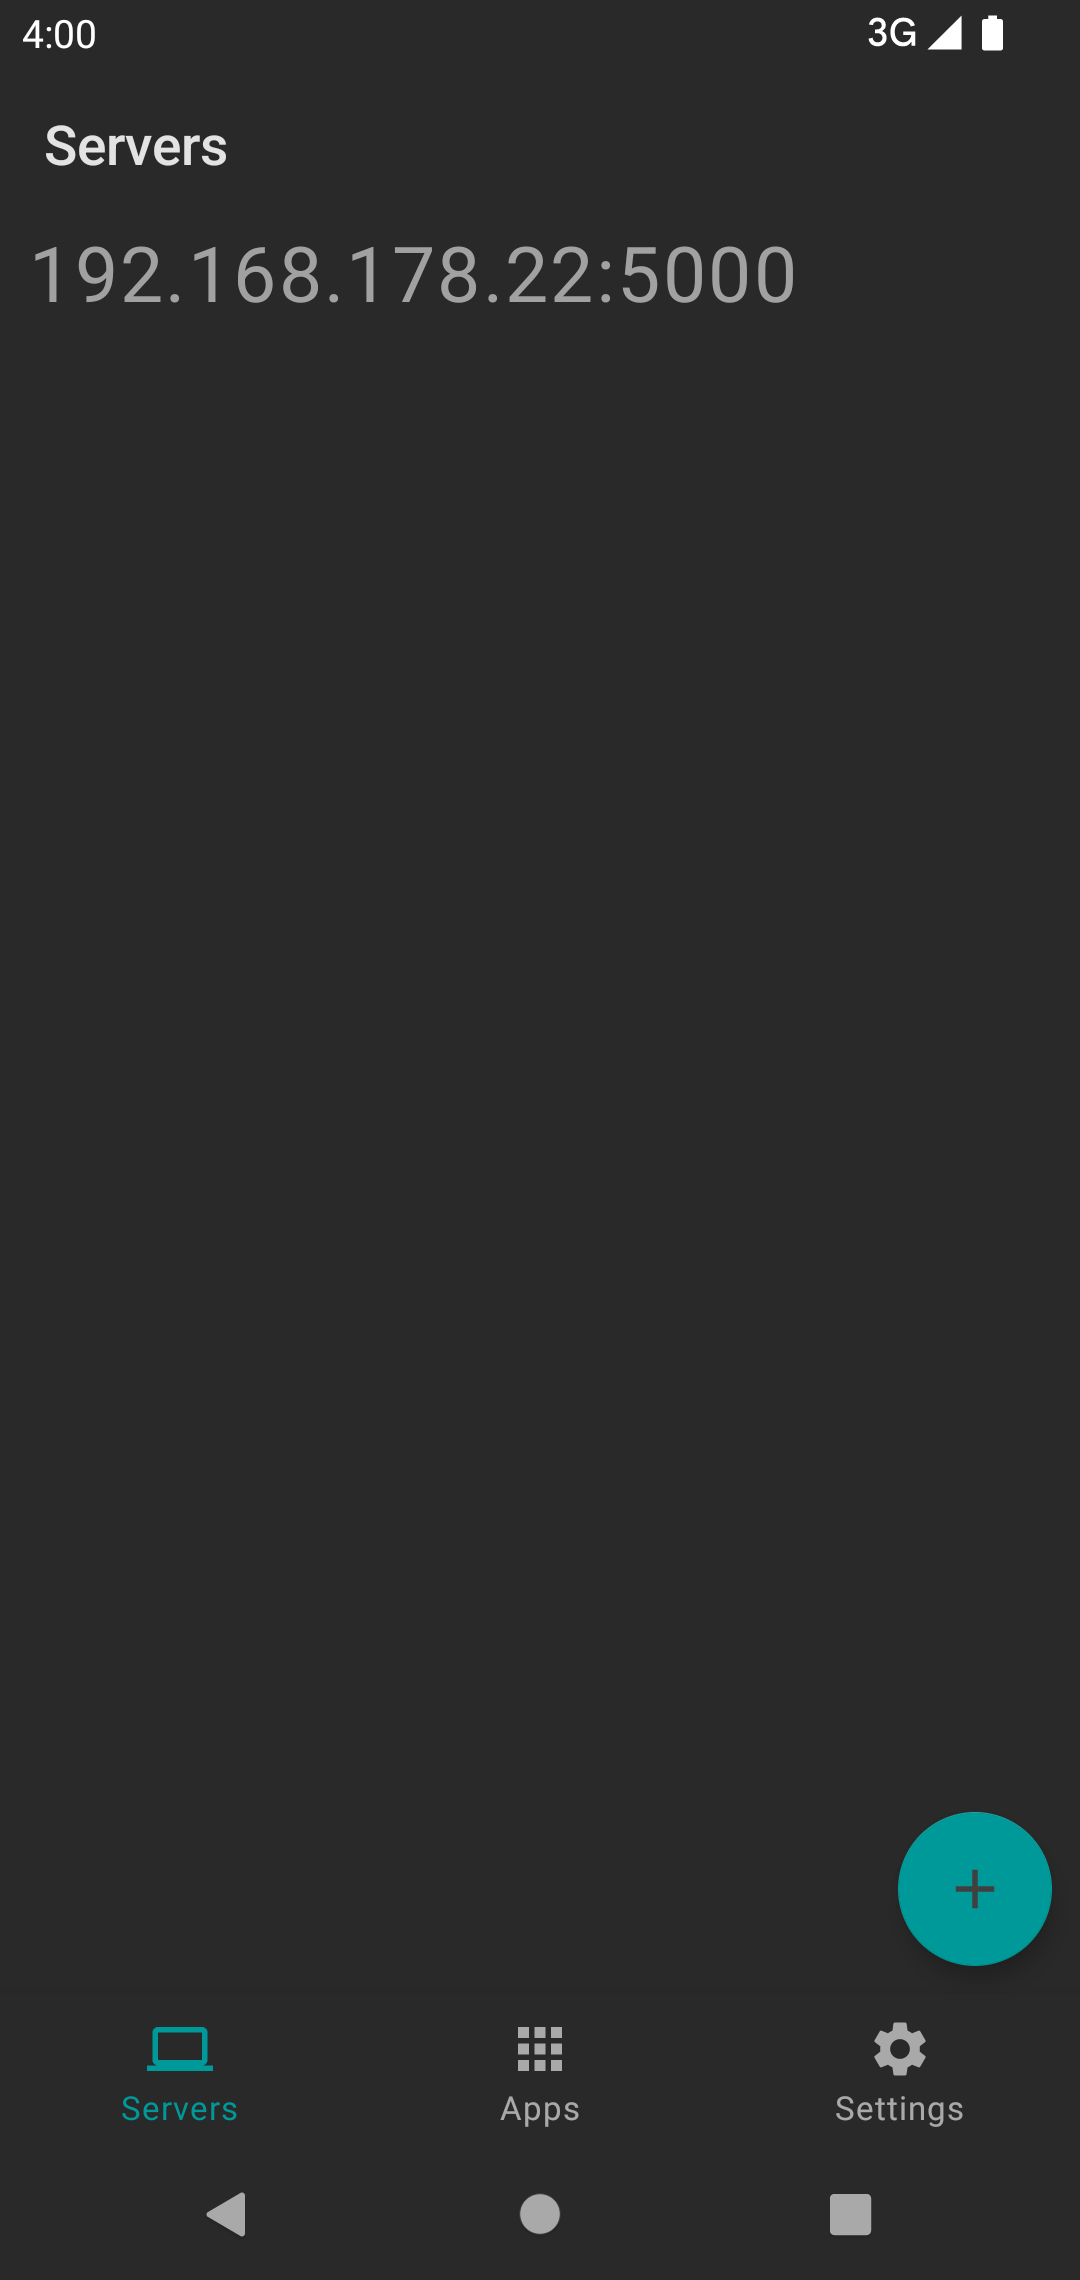
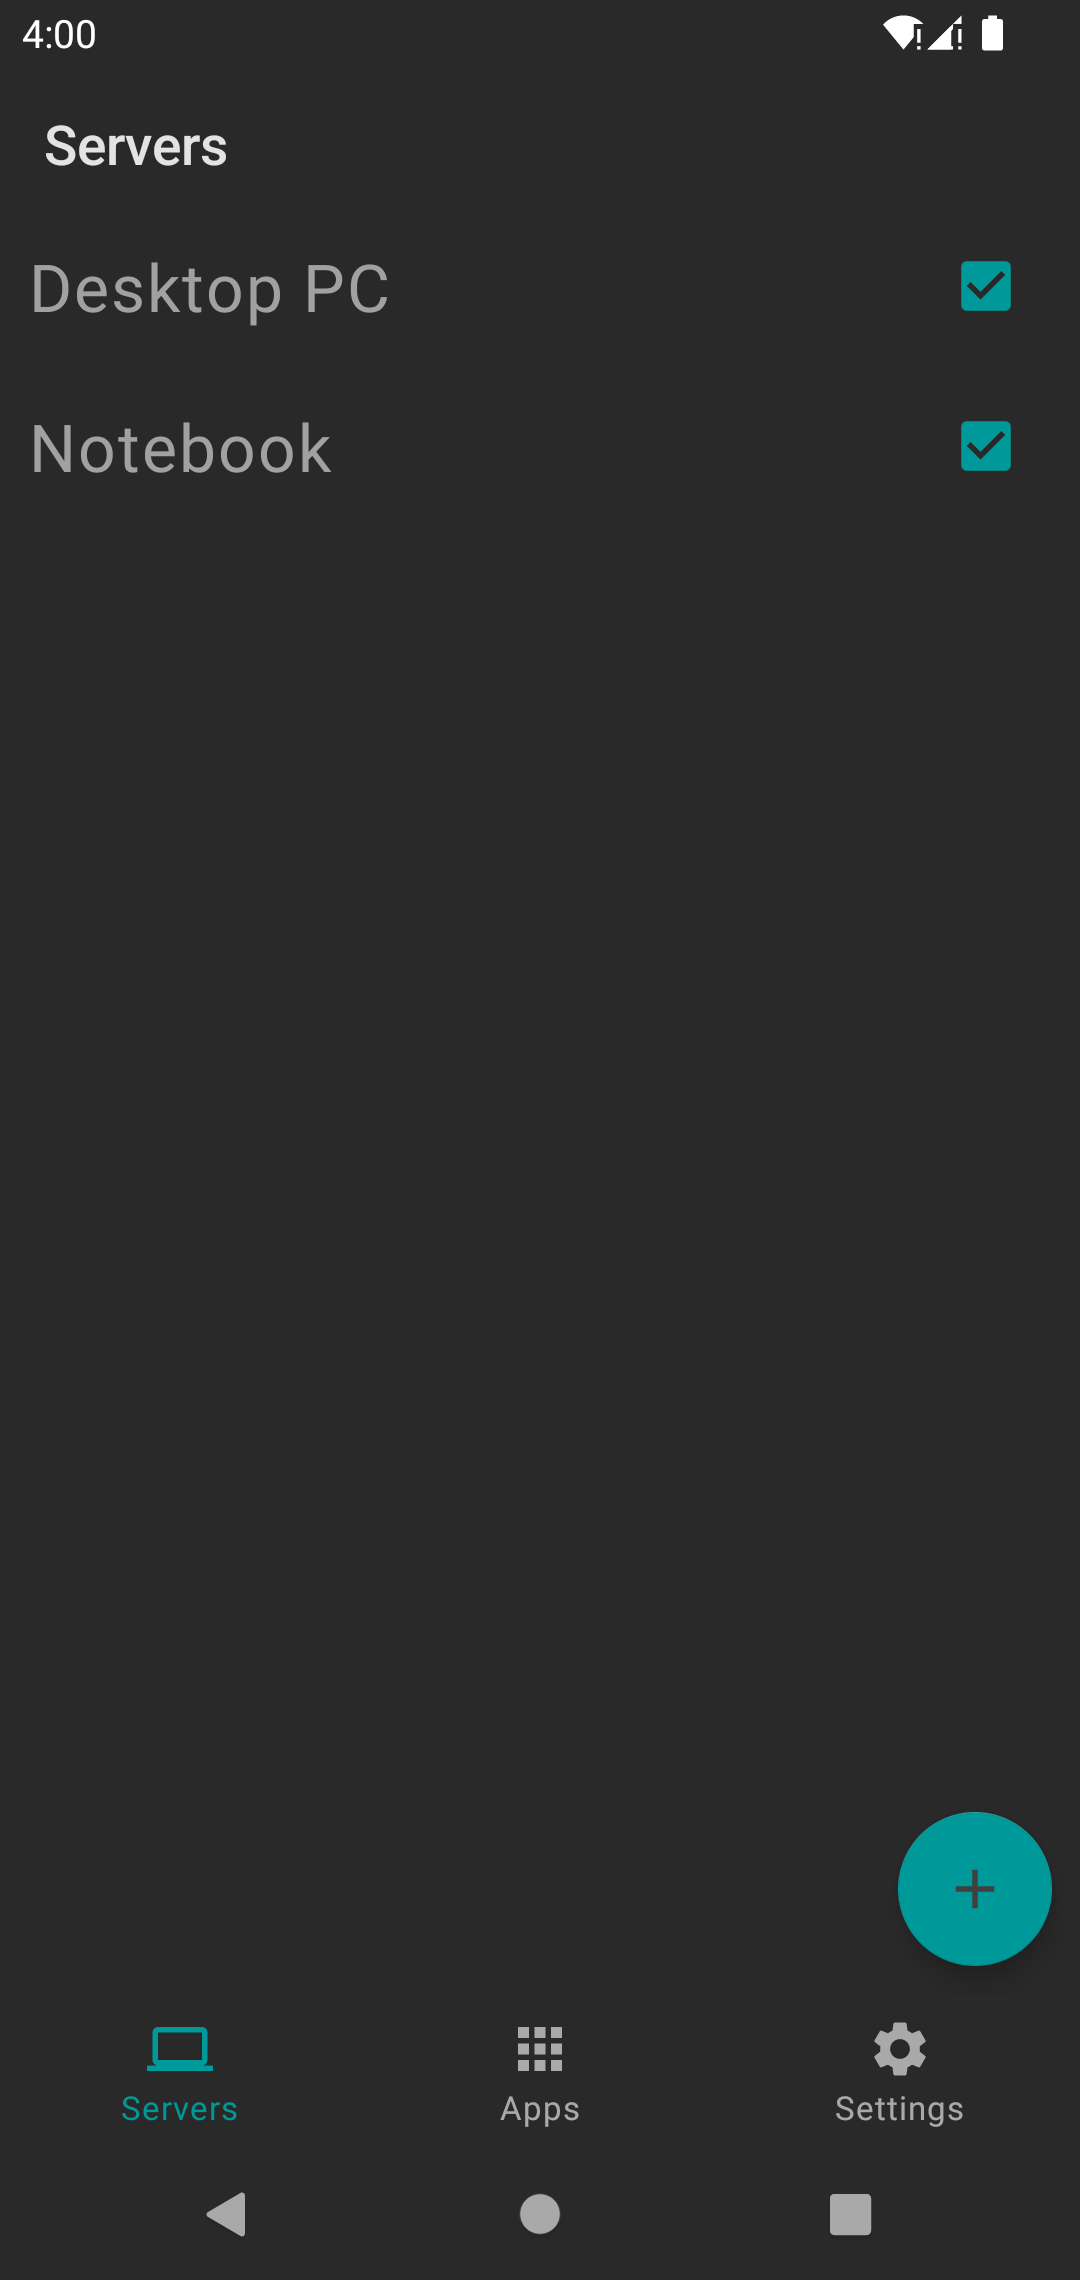
More features (#32)
* Added drag and drop order swapping and toggling of servers

* Update screenshots

diff --git a/app/src/main/java/dev/patri9ck/a2ln/server/DragAndDropCallback.java b/app/src/main/java/dev/patri9ck/a2ln/server/DragAndDropCallback.java
@@ -1,0 +1,54 @@
+/*
+ * Copyright (C) 2023  Patrick Zwick and contributors
+ *
+ * This program is free software: you can redistribute it and/or modify
+ * it under the terms of the GNU General Public License as published by
+ * the Free Software Foundation, either version 3 of the License, or
+ * (at your option) any later version.
+ *
+ * This program is distributed in the hope that it will be useful,
+ * but WITHOUT ANY WARRANTY; without even the implied warranty of
+ * MERCHANTABILITY or FITNESS FOR A PARTICULAR PURPOSE.  See the
+ * GNU General Public License for more details.
+ *
+ * You should have received a copy of the GNU General Public License
+ * along with this program.  If not, see <https://www.gnu.org/licenses/>.
+ */
+package dev.patri9ck.a2ln.server;
+
+import androidx.annotation.NonNull;
+import androidx.recyclerview.widget.ItemTouchHelper;
+import androidx.recyclerview.widget.RecyclerView;
+
+import java.util.Collections;
+import java.util.List;
+
+public class DragAndDropCallback extends ItemTouchHelper.SimpleCallback {
+
+    private final List<Server> servers;
+    private final ServersAdapter serversAdapter;
+
+    public DragAndDropCallback(List<Server> servers, ServersAdapter serversAdapter) {
+        super(ItemTouchHelper.UP | ItemTouchHelper.DOWN | ItemTouchHelper.START | ItemTouchHelper.END, 0);
+
+        this.servers = servers;
+        this.serversAdapter = serversAdapter;
+    }
+
+    @Override
+    public boolean onMove(@NonNull RecyclerView recyclerView, @NonNull RecyclerView.ViewHolder viewHolder, @NonNull RecyclerView.ViewHolder target) {
+        int from = viewHolder.getAdapterPosition();
+        int to = target.getAdapterPosition();
+
+        Collections.swap(servers, from, to);
+
+        serversAdapter.notifyItemMoved(from, to);
+
+        return true;
+    }
+
+    @Override
+    public void onSwiped(@NonNull RecyclerView.ViewHolder viewHolder, int direction) {
+
+    }
+}

diff --git a/app/src/main/java/dev/patri9ck/a2ln/notification/NotificationSender.java b/app/src/main/java/dev/patri9ck/a2ln/notification/NotificationSender.java
@@ -30,6 +30,7 @@ import java.util.Optional;
 import java.util.concurrent.CompletableFuture;
 import java.util.concurrent.CountDownLatch;
 import java.util.concurrent.TimeUnit;
+import java.util.stream.Collectors;
 
 import dev.patri9ck.a2ln.R;
 import dev.patri9ck.a2ln.server.Server;
@@ -50,7 +51,7 @@ public class NotificationSender {
     public NotificationSender(byte[] clientPublicKey, byte[] clientSecretKey, List<Server> servers) {
         this.clientPublicKey = clientPublicKey;
         this.clientSecretKey = clientSecretKey;
-        this.servers = servers;
+        this.servers = filterServers(servers);
     }
 
     public static Optional<NotificationSender> fromSharedPreferences(Context context, SharedPreferences sharedPreferences) {
@@ -69,7 +70,7 @@ public class NotificationSender {
     }
 
     public void setServers(List<Server> servers) {
-        this.servers = servers;
+        this.servers = filterServers(servers);
     }
 
     public KeptLog sendParsedNotification(ParsedNotification parsedNotification) {
@@ -117,7 +118,7 @@ public class NotificationSender {
             }));
         } finally {
             try {
-                if (!countDownLatch.await(TIMEOUT_SECONDS * 2, TimeUnit.SECONDS)) {
+                if (!countDownLatch.await(TIMEOUT_SECONDS + 1, TimeUnit.SECONDS)) {
                     keptLog.log("Timed out");
                 }
             } catch (InterruptedException ignored) {
@@ -128,5 +129,9 @@ public class NotificationSender {
         }
 
         return keptLog;
+    }
+
+    private List<Server> filterServers(List<Server> servers) {
+        return servers.stream().filter(Server::isEnabled).collect(Collectors.toList());
     }
 }

diff --git a/app/src/main/java/dev/patri9ck/a2ln/server/ServersAdapter.java b/app/src/main/java/dev/patri9ck/a2ln/server/ServersAdapter.java
@@ -19,6 +19,7 @@ package dev.patri9ck.a2ln.server;
 import android.annotation.SuppressLint;
 import android.view.LayoutInflater;
 import android.view.ViewGroup;
+import android.widget.CheckBox;
 import android.widget.TextView;
 
 import androidx.annotation.NonNull;
@@ -30,6 +31,7 @@ import java.util.List;
 import java.util.Optional;
 
 import dev.patri9ck.a2ln.R;
+import dev.patri9ck.a2ln.app.AppsAdapter;
 import dev.patri9ck.a2ln.databinding.DialogEditServerBinding;
 import dev.patri9ck.a2ln.databinding.ItemServerBinding;
 import dev.patri9ck.a2ln.notification.BoundNotificationReceiver;
@@ -97,6 +99,10 @@ public class ServersAdapter extends RecyclerView.Adapter<ServersAdapter.ServerVi
                     .setNegativeButton(R.string.cancel, null)
                     .show();
         });
+
+        holder.serverCheckBox.setOnCheckedChangeListener((serverCheckBoxView, isChecked) -> server.setEnabled(isChecked));
+
+        holder.serverCheckBox.setChecked(server.isEnabled());
     }
 
     @Override
@@ -107,11 +113,13 @@ public class ServersAdapter extends RecyclerView.Adapter<ServersAdapter.ServerVi
     protected static class ServerViewHolder extends RecyclerView.ViewHolder {
 
         private final TextView addressTextView;
+        private final CheckBox serverCheckBox;
 
         public ServerViewHolder(ItemServerBinding itemServerBinding) {
             super(itemServerBinding.getRoot());
 
             addressTextView = itemServerBinding.addressTextView;
+            serverCheckBox = itemServerBinding.serverCheckBox;
         }
     }
 }

diff --git a/app/src/main/java/dev/patri9ck/a2ln/server/Server.java b/app/src/main/java/dev/patri9ck/a2ln/server/Server.java
@@ -24,20 +24,22 @@ public class Server {
     private int port;
     private byte[] publicKey;
     private String alias;
+    private boolean enabled;
 
     public Server() {
         // Gson
     }
 
-    public Server(String ip, int port, byte[] publicKey, String alias) {
+    public Server(String ip, int port, byte[] publicKey, String alias, boolean enabled) {
         this.ip = ip;
         this.port = port;
         this.publicKey = publicKey;
         this.alias = alias;
+        this.enabled = enabled;
     }
 
     public Server(String ip, int port, byte[] publicKey) {
-        this(ip, port, publicKey, null);
+        this(ip, port, publicKey, null, true);
     }
 
     public String getIp() {
@@ -66,6 +68,14 @@ public class Server {
 
     public void setAlias(String alias) {
         this.alias = alias;
+    }
+
+    public boolean isEnabled() {
+        return enabled;
+    }
+
+    public void setEnabled(boolean enabled) {
+        this.enabled = enabled;
     }
 
     public String getAddress() {

diff --git a/app/src/main/java/dev/patri9ck/a2ln/server/ServersFragment.java b/app/src/main/java/dev/patri9ck/a2ln/server/ServersFragment.java
@@ -215,6 +215,7 @@ public class ServersFragment extends Fragment {
         fragmentServersBinding.serversRecyclerView.setLayoutManager(new LinearLayoutManager(requireContext()));
 
         new ItemTouchHelper(new SwipeToDeleteCallback(fragmentServersBinding.getRoot(), boundNotificationReceiver, servers, serversAdapter)).attachToRecyclerView(fragmentServersBinding.serversRecyclerView);
+        new ItemTouchHelper(new DragAndDropCallback(servers, serversAdapter)).attachToRecyclerView(fragmentServersBinding.serversRecyclerView);
     }
 
     private void startPairing(String serverIp, int pairingPort) {

diff --git a/app/src/main/java/dev/patri9ck/a2ln/server/SwipeToDeleteCallback.java b/app/src/main/java/dev/patri9ck/a2ln/server/SwipeToDeleteCallback.java
@@ -37,7 +37,7 @@ public class SwipeToDeleteCallback extends ItemTouchHelper.SimpleCallback {
     private final ServersAdapter serversAdapter;
 
     public SwipeToDeleteCallback(View rootView, BoundNotificationReceiver boundNotificationReceiver, List<Server> servers, ServersAdapter serversAdapter) {
-        super(0, ItemTouchHelper.LEFT);
+        super(0, ItemTouchHelper.LEFT | ItemTouchHelper.RIGHT);
 
         this.rootView = rootView;
         this.boundNotificationReceiver = boundNotificationReceiver;
